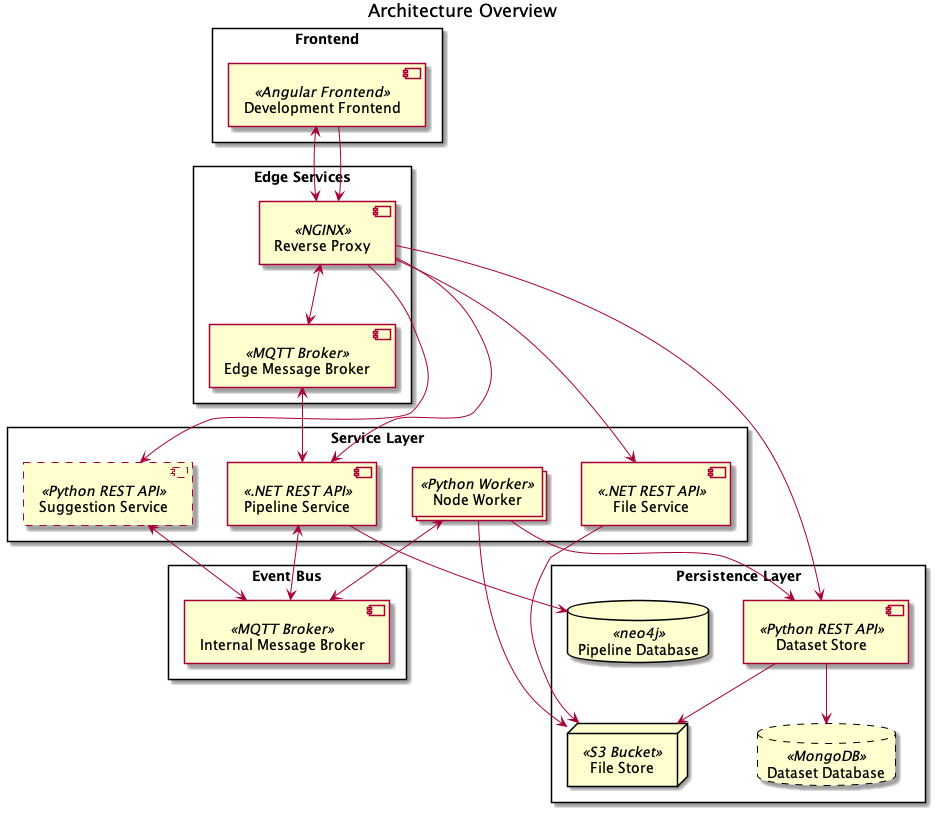
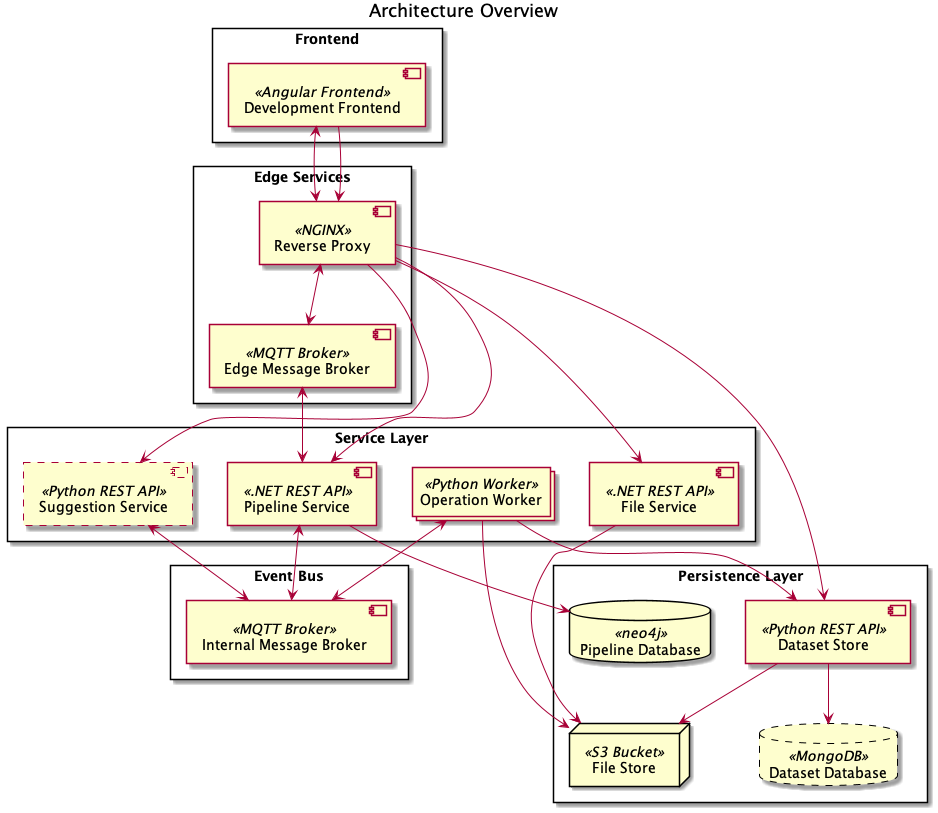
chore: rename NodeWorker to OperationWorker
Refs: PH-214

diff --git a/OperationWorker/src/main.py b/OperationWorker/src/main.py
@@ -11,7 +11,7 @@ from src.services.operation_service import OperationService
 
 MQTT_HOST: str = os.getenv("MQTT_HOST", "message-broker")
 MQTT_PORT: int = os.getenv("MQTT_PORT", 1883)
-CLIENT_ID: str = os.getenv("MQTT_CLIENT_ID", ("NodeWorker-" + str(uuid.uuid4())))
+CLIENT_ID: str = os.getenv("MQTT_CLIENT_ID", ("OperationWorker-" + str(uuid.uuid4())))
 TOPIC_NAME_SUB: str = os.getenv("MQTT_TOPIC_SUB", "execute/+/+")
 TOPIC_NAME_PUB: str = os.getenv("MQTT_TOPIC_PUB", "executed")
 DATASET_HOST: str = os.getenv("DATASET_HOST", "dataset-service")
@@ -41,7 +41,7 @@ def sigterm_handler(_signo, _stack_frame):
 
 
 if __name__ == '__main__':
-    logging.info('Starting node worker')
+    logging.info('Starting Operation Worker')
     operation_service = OperationService(OPERATION_HOST, OPERATION_PORT, logging)
     dataset_client = DatasetServiceClient(DATASET_HOST, DATASET_PORT, logging)
     file_store_client = FileStoreClient(logging)

diff --git a/OperationWorker/setup.py b/OperationWorker/setup.py
@@ -1,0 +1,3 @@
+from setuptools import setup, find_packages
+
+setup(name='operation-worker', version='0.0.1', packages=find_packages())
